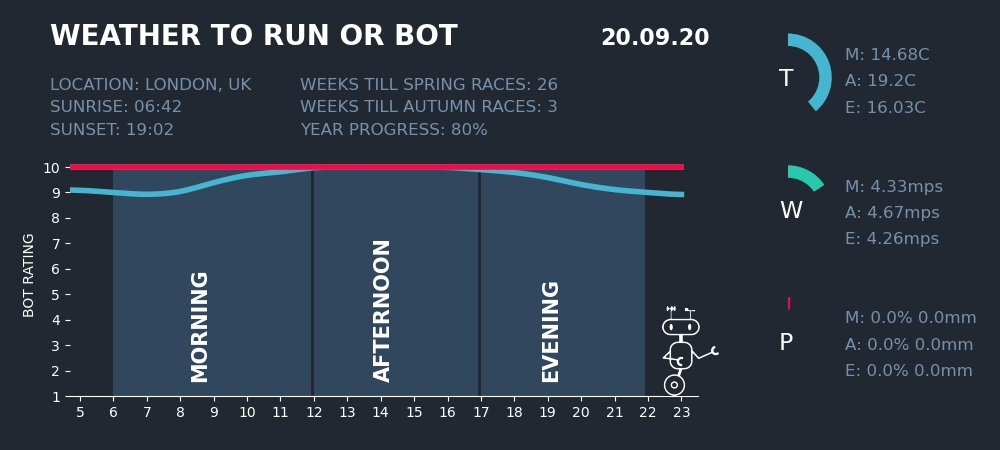
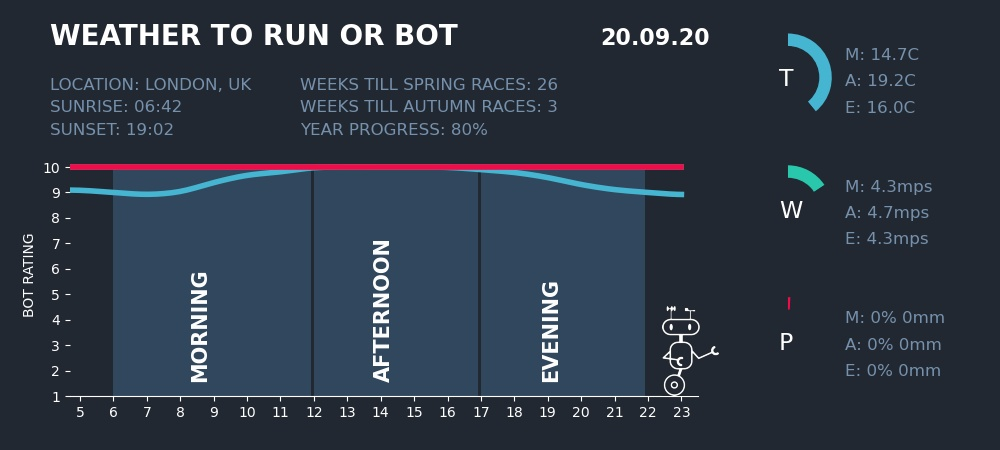
Fixed string formatting on dashboard

diff --git a/weather/forecast.py b/weather/forecast.py
@@ -70,13 +70,13 @@ def plot_scores(day, to_show):
     fig.text(0.05, 0.9, "Weather to run or bot".upper(), color='white', fontsize=20, fontweight='bold')
 
     fig.text(0.05, 0.8, "LOCATION: LONDON, UK", color='#7691ad', fontsize=12)
-    fig.text(0.05, 0.75, f"SUNRISE: {day.sunrise.strftime('%H:%M')}", color='#7691ad', fontsize=12)
-    fig.text(0.05, 0.7, f"SUNSET: {day.sunset.strftime('%H:%M')}", color='#7691ad', fontsize=12)
+    fig.text(0.05, 0.75, f"SUNRISE: {day.sunrise:%H:%M}", color='#7691ad', fontsize=12)
+    fig.text(0.05, 0.7, f"SUNSET: {day.sunset:%H:%M}", color='#7691ad', fontsize=12)
     fig.text(0.3, 0.8, "WEEKS TILL SPRING RACES: 26", color='#7691ad', fontsize=12)
     fig.text(0.3, 0.75, "WEEKS TILL AUTUMN RACES: 3", color='#7691ad', fontsize=12)
     fig.text(0.3, 0.7, "YEAR PROGRESS: 80%", color='#7691ad', fontsize=12)
 
-    fig.text(0.6, 0.9, day.date.strftime("%d.%m.%y"), color='white', fontsize=16, fontweight='bold')
+    fig.text(0.6, 0.9, f"{day.date:%d.%m.%y}", color='white', fontsize=16, fontweight='bold')
 
     for name, seg in day.segments.items():
         rect_width = seg.duration + 0.9
@@ -94,11 +94,6 @@ def plot_scores(day, to_show):
                 zorder=1
                 )
 
-    ax.plot(x_smooth, scipy.ndimage.gaussian_filter(f_t(x_smooth), 3) + 1, color='#46b5d1', linewidth=4.0)
-    ax.plot(x_smooth, scipy.ndimage.gaussian_filter(f_w(x_smooth), 3) + 1, color='#29c7ac', linewidth=4.0)
-    ax.plot(x_smooth, scipy.ndimage.gaussian_filter(f_p(x_smooth), 3) + 1, color='#f30a49', linewidth=4.0)
-    ax.set_ylabel("BOT RATING", color='white')
-
     ax.set_facecolor('#222831')
     ax.xaxis.set_major_locator(MultipleLocator(1))
     ax.yaxis.set_major_locator(MultipleLocator(1))
@@ -110,6 +105,11 @@ def plot_scores(day, to_show):
     ax.spines['right'].set_visible(False)
     ax.spines['left'].set_visible(False)
     ax.spines['bottom'].set_color('white')
+
+    ax.plot(x_smooth, scipy.ndimage.gaussian_filter(f_t(x_smooth), 3) + 1, color='#46b5d1', linewidth=4.0, zorder=5)
+    ax.plot(x_smooth, scipy.ndimage.gaussian_filter(f_w(x_smooth), 3) + 1, color='#29c7ac', linewidth=4.0, zorder=5)
+    ax.plot(x_smooth, scipy.ndimage.gaussian_filter(f_p(x_smooth), 3) + 1, color='#f30a49', linewidth=4.0, zorder=5)
+    ax.set_ylabel("BOT RATING", color='white')
 
     ax2 = fig.add_subplot(gs[0, -1])
     max_temp = 40  # C
@@ -125,9 +125,9 @@ def plot_scores(day, to_show):
     my_circle = plt.Circle((0, 0), 0.7, color='#222831')
     ax2.add_artist(my_circle)
     ax2.text(-0.2, -0.2, "T", color='white', fontsize=17)
-    ax2.text(1.3, 0.4, f"M: {day.segments['morning'].temp_c}C", color='#7691ad', fontsize=12)
-    ax2.text(1.3, -0.2, f"A: {day.segments['afternoon'].temp_c}C", color='#7691ad', fontsize=12)
-    ax2.text(1.3, -0.8, f"E: {day.segments['evening'].temp_c}C", color='#7691ad', fontsize=12)
+    ax2.text(1.3, 0.4, f"M: {day.segments['morning'].temp_c:.1f}C", color='#7691ad', fontsize=12)
+    ax2.text(1.3, -0.2, f"A: {day.segments['afternoon'].temp_c:.1f}C", color='#7691ad', fontsize=12)
+    ax2.text(1.3, -0.8, f"E: {day.segments['evening'].temp_c:.1f}C", color='#7691ad', fontsize=12)
 
     ax3 = fig.add_subplot(gs[1, -1])
     max_wind = 30  # mps
@@ -136,9 +136,9 @@ def plot_scores(day, to_show):
     my_circle = plt.Circle((0, 0), 0.7, color='#222831')
     ax3.add_artist(my_circle)
     ax3.text(-0.2, -0.2, "W", color='white', fontsize=17)
-    ax3.text(1.3, 0.4, f"M: {day.segments['morning'].wind_mps}mps", color='#7691ad', fontsize=12)
-    ax3.text(1.3, -0.2, f"A: {day.segments['afternoon'].wind_mps}mps", color='#7691ad', fontsize=12)
-    ax3.text(1.3, -0.8, f"E: {day.segments['evening'].wind_mps}mps", color='#7691ad', fontsize=12)
+    ax3.text(1.3, 0.4, f"M: {day.segments['morning'].wind_mps:.1f}mps", color='#7691ad', fontsize=12)
+    ax3.text(1.3, -0.2, f"A: {day.segments['afternoon'].wind_mps:.1f}mps", color='#7691ad', fontsize=12)
+    ax3.text(1.3, -0.8, f"E: {day.segments['evening'].wind_mps:.1f}mps", color='#7691ad', fontsize=12)
 
     ax4 = fig.add_subplot(gs[2, -1])
     max_precip = 20  # mm
@@ -150,12 +150,12 @@ def plot_scores(day, to_show):
     my_circle = plt.Circle((0, 0), 0.7, color='#222831')
     ax4.add_artist(my_circle)
     ax4.text(-0.2, -0.2, "P", color='white', fontsize=17)
-    ax4.text(1.3, 0.4, f"M: {day.segments['morning'].precipitation_prob}% "
-                       f"{day.segments['morning'].precipitation_mm}mm", color='#7691ad', fontsize=12)
-    ax4.text(1.3, -0.2, f"A: {day.segments['afternoon'].precipitation_prob}% "
-                        f"{day.segments['afternoon'].precipitation_mm}mm", color='#7691ad', fontsize=12)
-    ax4.text(1.3, -0.8, f"E: {day.segments['evening'].precipitation_prob}% "
-                        f"{day.segments['evening'].precipitation_mm}mm", color='#7691ad', fontsize=12)
+    ax4.text(1.3, 0.4, f"M: {(day.segments['morning'].precipitation_prob * 100):.0f}% "
+                       f"{day.segments['morning'].precipitation_mm:.0f}mm", color='#7691ad', fontsize=12)
+    ax4.text(1.3, -0.2, f"A: {(day.segments['afternoon'].precipitation_prob * 100):.0f}% "
+                        f"{day.segments['afternoon'].precipitation_mm:.0f}mm", color='#7691ad', fontsize=12)
+    ax4.text(1.3, -0.8, f"E: {(day.segments['evening'].precipitation_prob * 100):.0f}% "
+                        f"{day.segments['evening'].precipitation_mm:.0f}mm", color='#7691ad', fontsize=12)
 
     ax5 = fig.add_axes([0.59, 0.12, 0.2, 0.2])
     im = mpimg.imread('art/my_bot.png')
